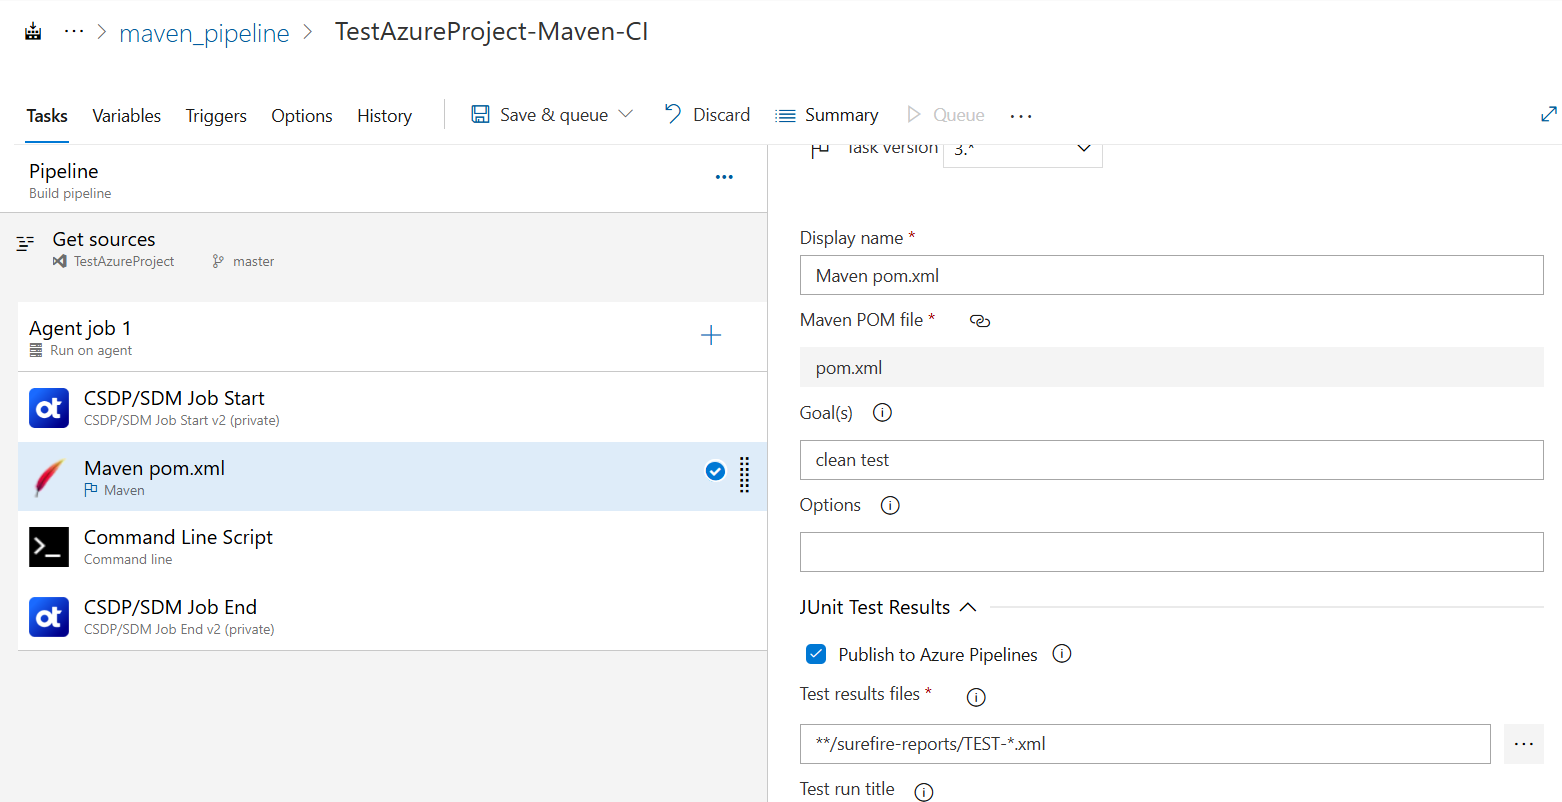
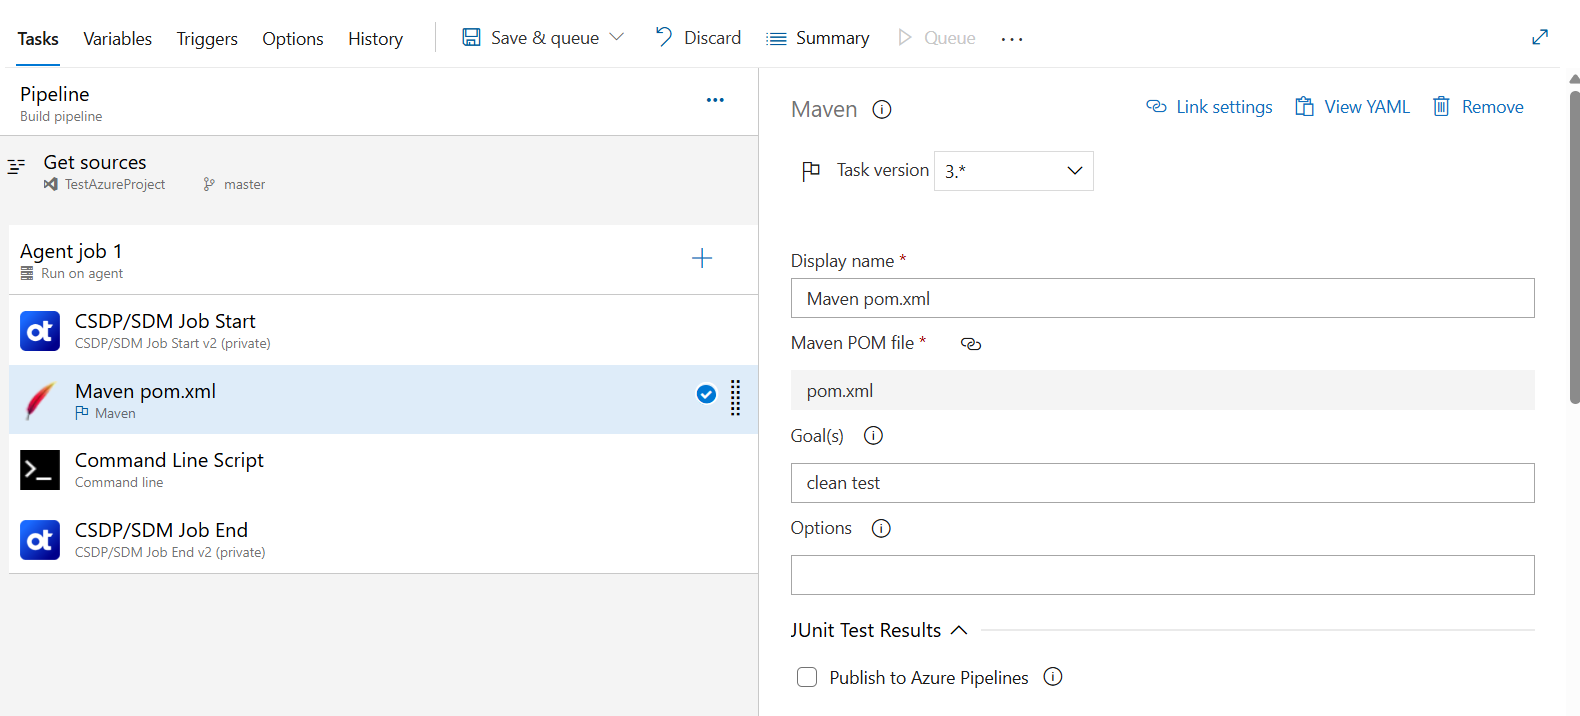
issue #3034364 - updated documentation + corrected typos

diff --git a/README.md b/README.md
@@ -431,7 +431,7 @@ Now you can create complex scenarios with different jobs. Make sure you understa
 ## 6. Pipeline configuration for executing UFT One Tests
 For executing UFT One tests from Azure DevOps pipelines and displaying the results into the product, the following prerequisites must be met:
 
-1. The Azure DevOps agent must **not** be running as a service. I should be turned on using the `run.cmd` from the agent's folder.
+1. The Azure DevOps agent must **not** be running as a service. It should be turned on using the `run.cmd` from the agent's folder.
 1. OpenText Functional Testing application must be installed.
 2. FToolsLauncher.exe must be in the repository used by the pipeline.
 3. The following steps must be added to the pipeline between the CSDP/SDM Start and End tasks:
@@ -591,7 +591,7 @@ In case you wish to use variables, instead of parameters, you can do it as follo
 2. Needed steps based of the Cucumber version you are using:
 
 > [!IMPORTANT]
-> Starting with Cucumber JVM versions 4.8.1+ you should use the bdd2octane tool which supports multiple BDD frameworks including Cucumber 5.x and later. See https://github.com/MicroFocus/octane-cucumber-jvm/tree/master.
+> Starting with Cucumber JVM versions 4.8.1+ you should use the bdd2octane tool which supports multiple BDD frameworks including Cucumber 5.x and later. See https://github.com/MicroFocus/bdd2octane.
 
 If you are using 4.8.1+ versions, you need to have the following steps in the pipeline configuration:
 
@@ -599,7 +599,7 @@ If you are using 4.8.1+ versions, you need to have the following steps in the pi
 
 In the CSDP/SDM Job End task, you need to set the Cucumber report destination path with the same value as you have in the `-DresultFile`  in the previous step, as shown in the example above.
 
-In the edn your pipeline should look like this:
+In the end your pipeline should look like this:
 ```yaml
 trigger:
 - main
@@ -617,8 +617,6 @@ steps:
   inputs:
     mavenPomFile: 'pom.xml'
     goals: 'clean test'
-    publishJUnitResults: true
-    testResultsFiles: '**/surefire-reports/cucumber-jvm-result.xml'
 
 - script: |
     echo "Converting BDD results..."
@@ -660,7 +658,7 @@ Fill in the Cucumber report destination path field when configuring the CSDP/SDM
 2. Needed steps based of the Cucumber version you are using:
 
 > [!IMPORTANT]
-> Starting with Cucumber JVM versions 4.8.1+ you should use the bdd2octane tool which supports multiple BDD frameworks including Cucumber 5.x and later. See https://github.com/MicroFocus/octane-cucumber-jvm/tree/master.
+> Starting with Cucumber JVM versions 4.8.1+ you should use the bdd2octane tool which supports multiple BDD frameworks including Cucumber 5.x and later. See https://github.com/MicroFocus/bdd2octane.
 
 If you are using 4.8.1+ versions, you need to have the following steps in the pipeline configuration:
 First you need to add the Maven task:
@@ -913,7 +911,7 @@ $currentCommit | Out-File "last_successful_commit.txt" -Encoding ascii
 ```
 
 > [!CAUTION]
-> The following step needs to be added only after the pipeline run successfully once with the other steps and the artifact with the last successful commit is published, otherwise the step will fail as there is no artifact to download.
+> The following step needs to be added only after the pipeline ran successfully once with the other steps and the artifact with the last successful commit is published, otherwise the step will fail as there is no artifact to download.
 
 ```yaml
 - task: DownloadPipelineArtifact@2
@@ -936,7 +934,7 @@ $currentCommit | Out-File "last_successful_commit.txt" -Encoding ascii
   displayName: Detect changed files since last successful run
 ```
 
-- The next step is retrieving the of the parameters which will be used for the OpenText Functional Testing test discovery, using the CSDP/SDM Get Parameters task to securely retrieve the parameters from the earlier configured service connection:
+- The next step is retrieving the values of the parameters which will be used for the OpenText Functional Testing test discovery, using the CSDP/SDM Get Parameters task to securely retrieve the parameters from the earlier configured service connection:
 
 ```yaml
 - task: octane-get-params-task@25
